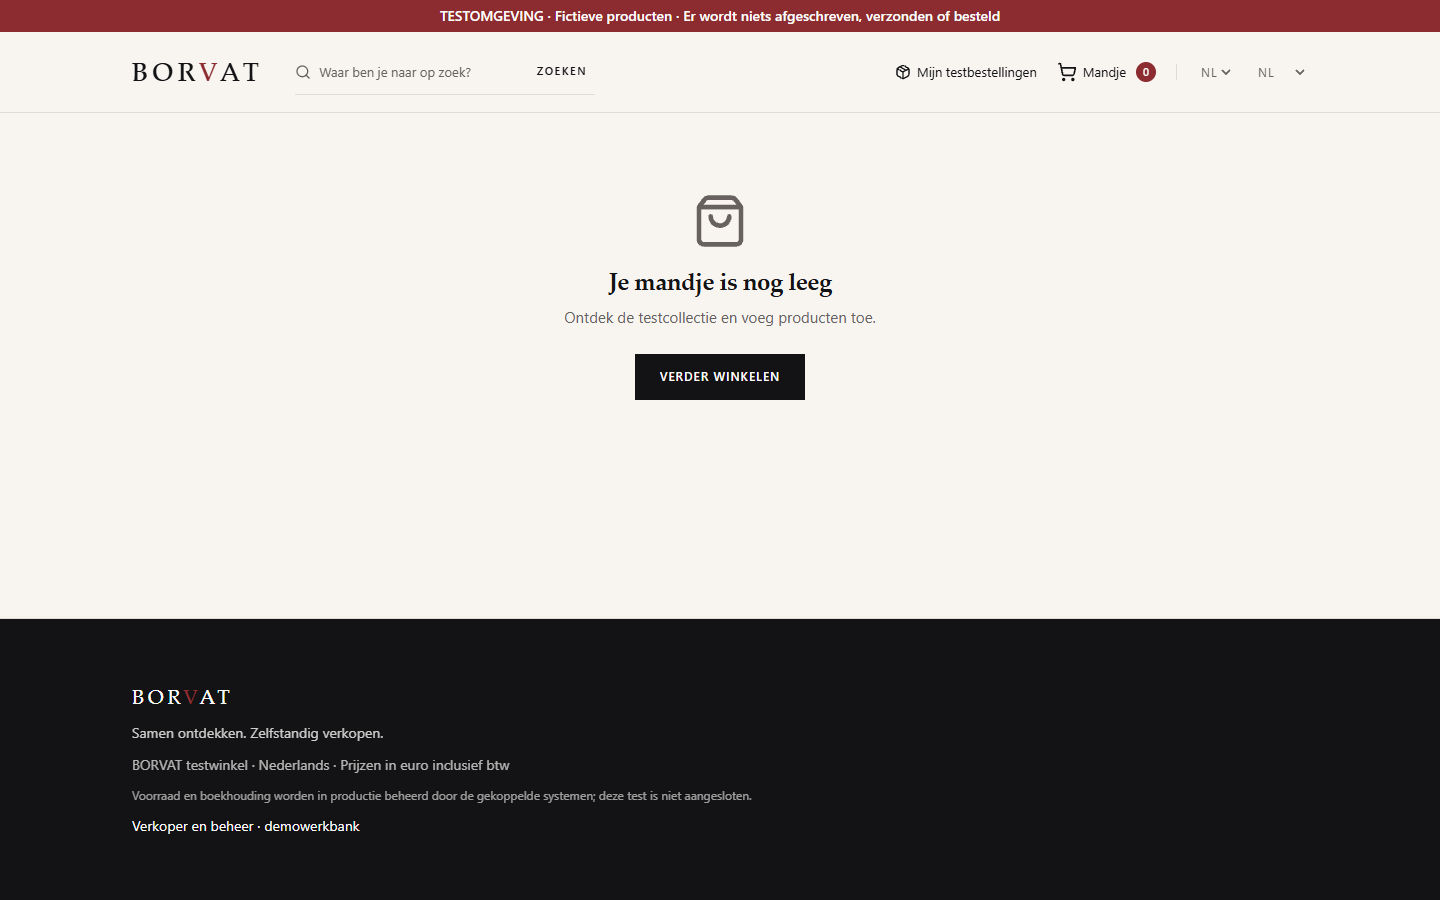
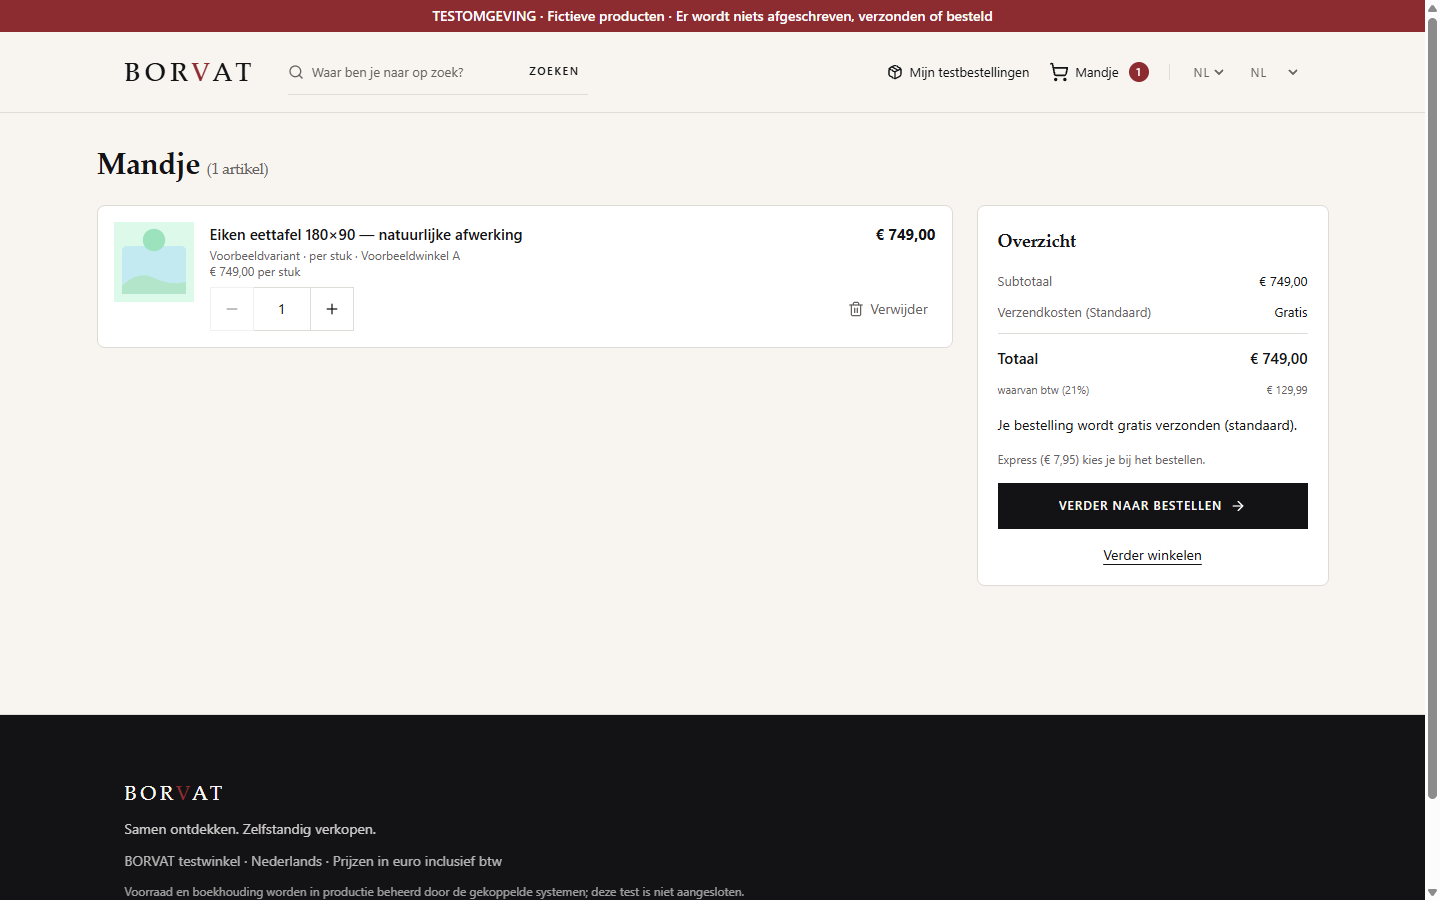
docs(design): record the add-to-cart proof and the filled cart captures

diff --git a/.design/DELIVERY.md b/.design/DELIVERY.md
@@ -16,7 +16,8 @@
 | After home 1440 / 390 | `.design/after/home-1440.png`, `home-390.png` |
 | After discover 1440 / 390 | `.design/after/discover-1440.png`, `discover-390.png` |
 | After product 1440 / 390 | `.design/after/pdp-1440.png`, `pdp-390.png` |
-| After cart 1440 / 390 | `.design/after/cart-1440.png`, `cart-390.png` |
+| After cart 1440 / 390 (empty) | `.design/after/cart-1440.png`, `cart-390.png` |
+| After cart with a line 1440 / 390 | `.design/after/cart-filled-1440.png`, `cart-filled-390.png` |
 
 What changed in the first screen: gradient hero with a yellow "NIEUW" pill replaced by a paper hero with a serif display headline, a small-caps eyebrow, hairline rules and a featured object; marketplace-style cards replaced by image-led 4:5 crops; a dark rounded filter card replaced by hairline filters; the dark header bar replaced by a paper header with an underlined search field and one oxblood accent.
 
@@ -51,6 +52,7 @@ No route, hook, handler, query, data shape, copy meaning, migration or Supabase 
 | Build (`build.mjs isolated`, Linux) | success, `.output` generated |
 | HTTP `/`, `/discover`, `/product/prd_001`, `/cart` | 200 |
 | Horizontal overflow at 1440 and 390 | none on all four pages |
+| Add to cart, PDP → cart (browser) | button `IN WINKELWAGEN` clicked, header badge `1`, cart reads `Mandje (1 artikel)`, `Totaal € 749,00`, `Verzendkosten Gratis`, `waarvan btw € 129,99` |
 | One `h1` per page, heading order | preserved |
 | Focus ring, tap targets ≥44px on buttons/steppers | implemented in the shared primitives |
 
@@ -58,6 +60,6 @@ No route, hook, handler, query, data shape, copy meaning, migration or Supabase 
 
 1. **Product imagery is the existing placeholder.** The isolated catalogue has no real product photos; the design treats the placeholder honestly (labelled "voorbeeldafbeelding"). It cannot look like a photographed catalogue until real media exists.
 2. **The PDP buy box is still a rounded, shadowed card** — the one surface that did not get the hairline treatment. Left as-is after two fix cycles rather than opening a third.
-3. **Add-to-cart was not clicked end-to-end in this session**: the browser daemon timed out twice during the interaction. Cart and pricing behaviour is covered by the 27 passing commerce tests and the PDP screenshot shows the enabled "IN WINKELWAGEN" control, but the click itself is not proven here.
+3. **Cart, buy box and line item surfaces keep the rounded white card** used before the redesign, while the rest of the storefront is hairline-flat. Deliberate stop after two fix cycles; a third pass would flatten them too.
 4. No Safari/Firefox pass, no screen-reader pass, no RTL exercise (the storefront ships Dutch only; the Arabic/RTL rules in DESIGN.md apply if enabled).
 5. Not deployed: staging still serves the old design until you approve a deploy.
